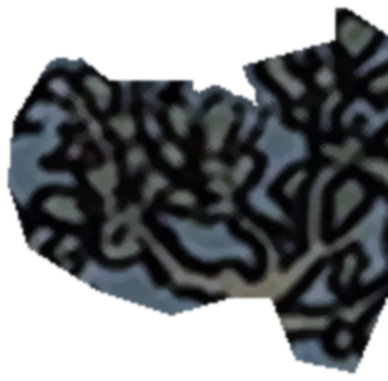
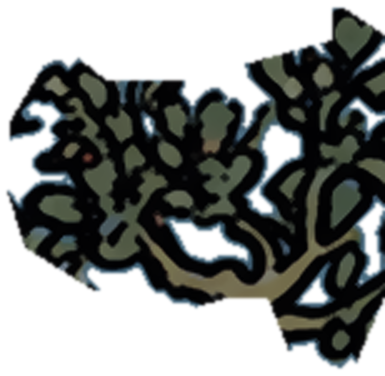
XVII 星星：底图换成用户上传的高清版 Star_clothed2.png；树冠精灵图只取叶枝，补洞不再盖住周围墨线

diff --git a/cards/17-star/layers.tsx b/cards/17-star/layers.tsx
@@ -17,7 +17,7 @@ const { OPEN_DUR } = require("./plan.js");
  *                   each with a night twin crossfaded by the reversed tint)
  *   "birdHalo"      a soft light breathes around the bird (weaker reversed)
  *   "faceGlow"      a soft light near her face slowly returns
- * Coordinates are scan px of scans/Star_clothed.png.
+ * Coordinates are scan px of scans/Star_clothed2.png.
  */
 type Box = [number, number, number, number];
 type P = [number, number];

diff --git a/cards/17-star/plan.js b/cards/17-star/plan.js
@@ -1,4 +1,4 @@
-// XVII 星星 — episode plan (series episode 6). Shot focus points are px of scans/Star_clothed.png (955x1647), the
+// XVII 星星 — episode plan (series episode 6). Shot focus points are px of scans/Star_clothed2.png (955x1647), the
 // user's clothed-figure version supplied 2026-10-21 (the 1909 scan shows the figure nude; RWS_Tarot_17_Star.jpg is
 // kept only for reference). Measured on out/17-star/check/full_grid.jpg.
 //

diff --git a/cards/17-star/assets.py b/cards/17-star/assets.py
@@ -1,5 +1,5 @@
 # XVII 星星 — card-specific assets, run after restyle.py:
-#   python -I cards/17-star/assets.py scans/Star_clothed.png
+#   python -I cards/17-star/assets.py scans/Star_clothed2.png
 # 1. art_night.png is rebuilt as a moonlit grade of art.png. restyle.py's tone-curve night edition does not work on
 #    this card: the robe's pale-blue folds have the same luminance and saturation as the sky, so they turned into
 #    dark blotches. Here the whole picture is darkened and cooled evenly, and only the open sky and the water
@@ -8,7 +8,7 @@
 #      wings.png  the bird's two raised wings, flapped gently by layers.tsx (rotated about the shoulder)
 #      crown.png  the leafy crown of the tree, swayed about the trunk
 #    The hole under each sprite is filled with the surrounding sky in both arts, so the sprite is the only copy.
-# Writes cards/17-star/fx.json (boxes in scan px of scans/Star_clothed.png, measured on out/17-star/check/*.jpg).
+# Writes cards/17-star/fx.json (boxes in scan px of scans/Star_clothed2.png, measured on out/17-star/check/*.jpg).
 import sys, os, json
 import numpy as np
 import cv2
@@ -80,7 +80,8 @@ def bbox(m, pad=3):
 
 def sky_fill(hole_scan, img, sigma=6):
     """fill a hole (scan-px mask) from the open sky around it: normalized convolution at 1/8 scale + grain"""
-    hole = to_art(cv2.dilate(hole_scan.astype(np.uint8), disk(5)) > 0, 2.0)
+    # grow the hole only into sky (to take the pale rim), never over ink or leaves the sprite does not carry
+    hole = to_art((cv2.dilate(hole_scan.astype(np.uint8), disk(5)) > 0) & (hole_scan | blue), 2.0)
     keep = to_art(blue & ~cv2.dilate(hole_scan.astype(np.uint8), disk(7)).astype(bool), 0)  # any sky-blue pixel
     keep = (keep > 0.99).astype(np.float32)
     q = 8
@@ -103,13 +104,17 @@ sprites = {}
 wz = poly(WING_ZONE)
 sprites["wings"] = cv2.dilate((wz & ~blue).astype(np.uint8), disk(5)).astype(bool) & wz  # the wing and its pale ink rim, not the open sky between the wings
 cz = poly(CROWN_ZONE) & ~poly(BIRD_KEEP)
-leaf = cz & ~open_blue
+# every sky-blue pixel inside the zone is sky between the leaves (Star_clothed2's saturated sky is not reached by
+# open_blue there), so only leaves, branches and their ink go into the sprite; the polygon's straight edges then
+# never show as a cut when the crown sways
+leaf = cz & ~blue
 leaf = cv2.morphologyEx(leaf.astype(np.uint8), cv2.MORPH_CLOSE, disk(3)).astype(bool) & cz
-# take the pale rim the scan has around every ink line with the leaves, so no light seam shows when they sway
-leaf = cv2.dilate(leaf.astype(np.uint8), disk(5)).astype(bool) & cz
+leaf = cv2.dilate(leaf.astype(np.uint8), disk(3)).astype(bool) & cz
 sprites["crown"] = leaf
 # where the wing polygon cuts through the bird's back, the original stays under the sprite (no sky seam at the shoulder)
-KEEP_UNDER = {"wings": poly([(793, 462), (814, 460), (824, 488), (806, 497), (790, 492)])}
+KEEP_UNDER = {"wings": poly([(793, 462), (814, 460), (824, 488), (806, 497), (790, 492)]),
+              # where the crown polygon cuts through leaves or the trunk, a band of original stays under the sprite
+              "crown": cz & ~(cv2.erode(cz.astype(np.uint8), disk(13)) > 0) & ~blue}
 
 for name, m in sprites.items():
     b = bbox(m)

diff --git a/继续制作_交接说明.md b/继续制作_交接说明.md
@@ -2,7 +2,7 @@
 
 ## 接手目标与现状
 
-系列第 6 期「XVII 星星」素材、动效、音效已完成，已注册到 `src/cards.ts`，按 `HANDOVER.md` 交用户本地渲染。分镜以用户定稿的 `out/17-star/分镜.md` 为准：每段时长都写死在 `plan.js` 里，预告从 1:17.6 开始、约 3.6 秒（用户的选择）。底图用穿白袍版 `scans/Star_clothed.png`。
+系列第 6 期「XVII 星星」素材、动效、音效已完成，已注册到 `src/cards.ts`，按 `HANDOVER.md` 交用户本地渲染。分镜以用户定稿的 `out/17-star/分镜.md` 为准：每段时长都写死在 `plan.js` 里，预告从 1:17.6 开始、约 3.6 秒（用户的选择）。底图用穿白袍版 `scans/Star_clothed2.png`。
 
 系列第 7 期「XVIII 月亮」：`out/18-moon/分镜.md` 和 `cards/18-moon/plan.js`、`card.json` 是初稿，**还在等用户确认**，素材未处理，画框仍是 `[0,0,0,0]`，未注册。之后依次是「XIX 太阳」「XX 审判」「XXI 世界」。不要把塔罗牌序号当作系列期数。
 

diff --git a/HANDOVER.md b/HANDOVER.md
@@ -118,8 +118,8 @@ tarot-atlas/
 
 ### 重新处理素材（本次不需要，仅备查）
 ```bash
-python -I scripts/restyle.py scans/Star_clothed.png cards/17-star
-python -I cards/17-star/assets.py scans/Star_clothed.png   # 夜色版重调、翅膀和树冠精灵图、水流遮罩
+python -I scripts/restyle.py scans/Star_clothed2.png cards/17-star
+python -I cards/17-star/assets.py scans/Star_clothed2.png   # 夜色版重调、翅膀和树冠精灵图、水流遮罩
 ```
 两条必须按顺序一起跑（assets.py 会在 restyle.py 刚写出的 art.png 上挖洞补天空，单独重跑会出错）。它们会覆盖 `public/cards/17-star/` 下的图片和 `cards/17-star/generated.json`、`fx.json`。
 
